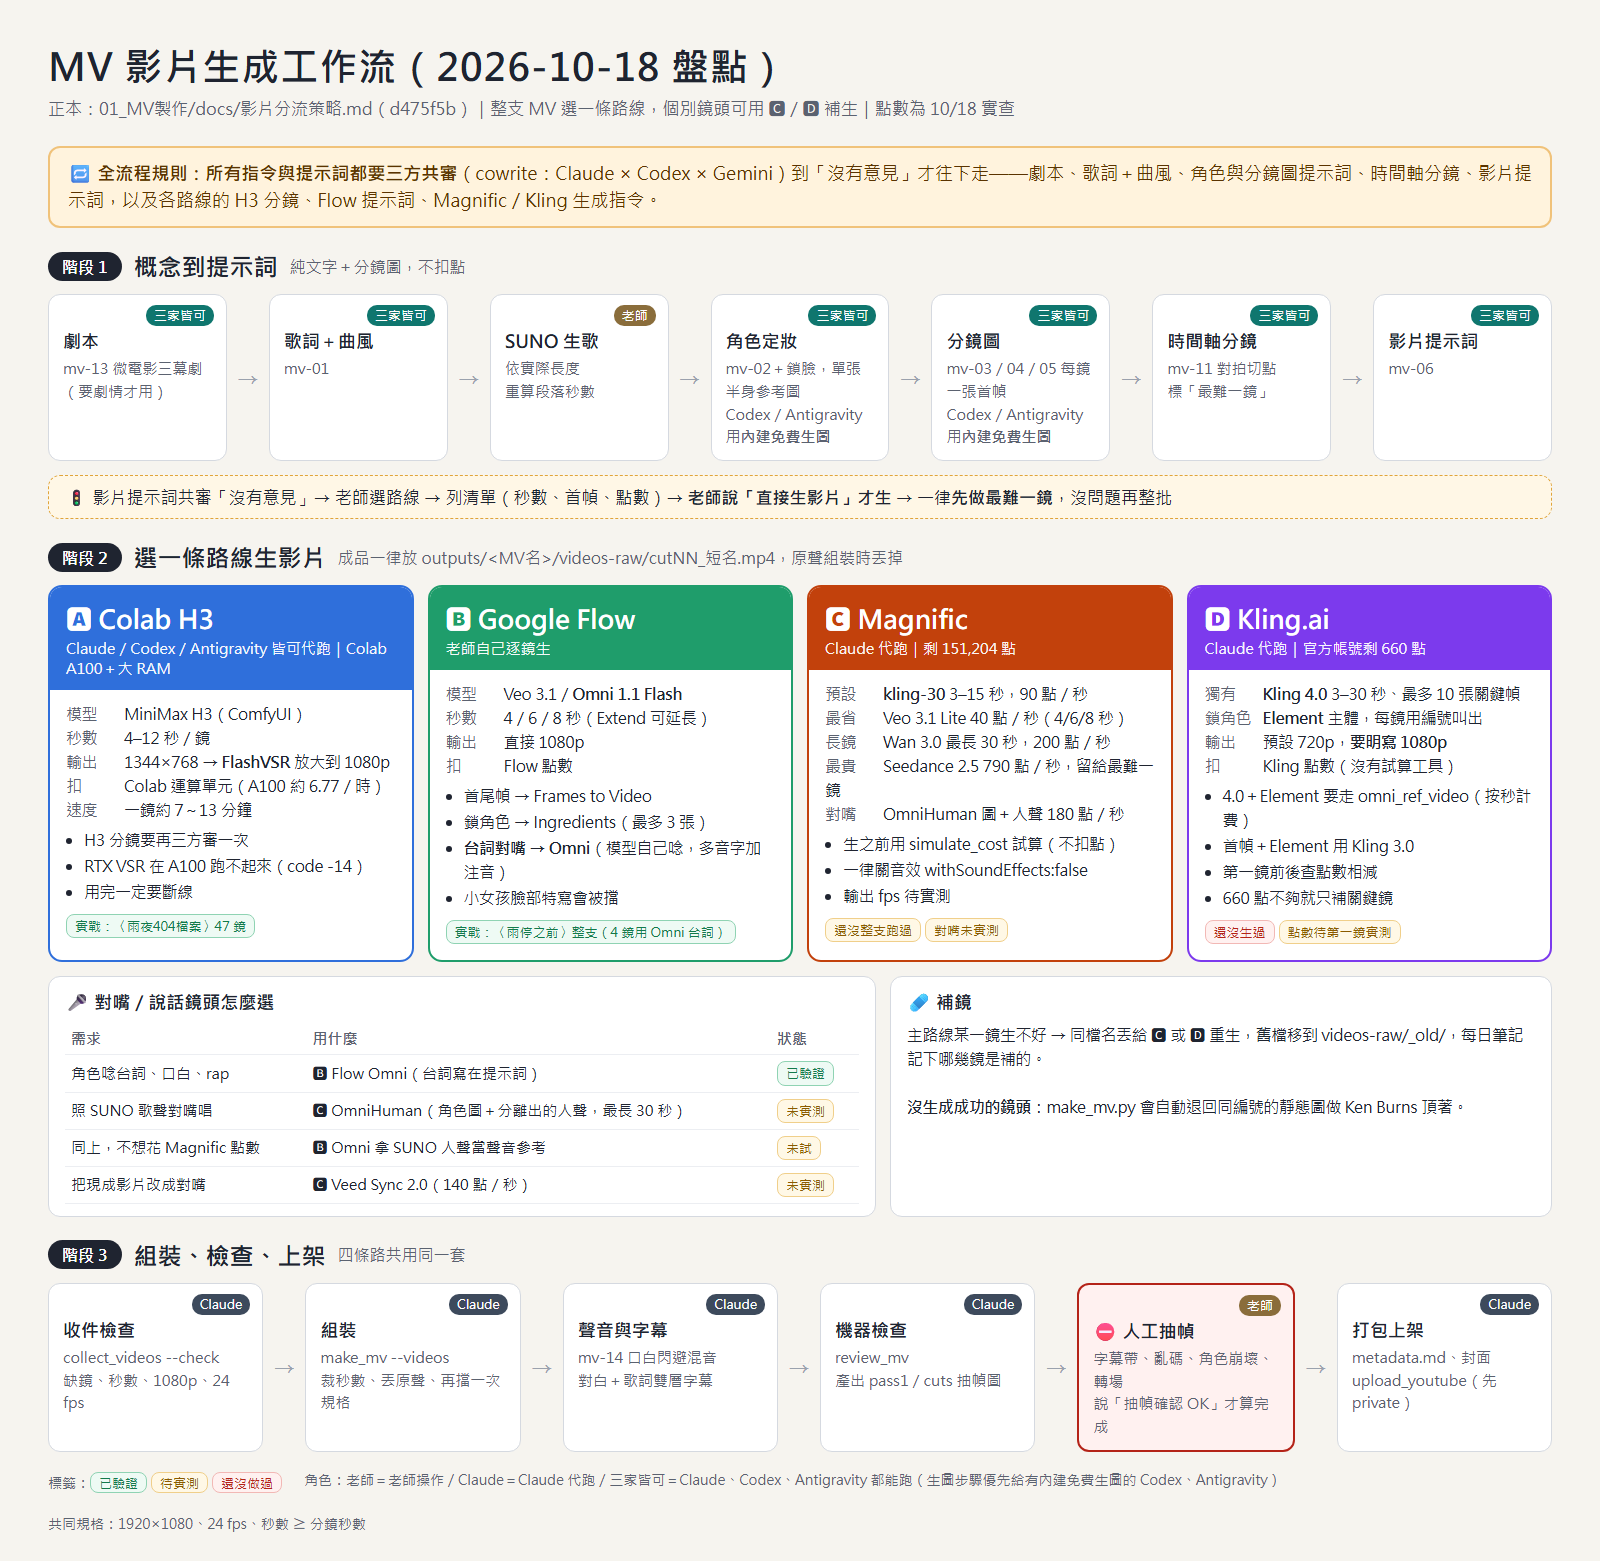
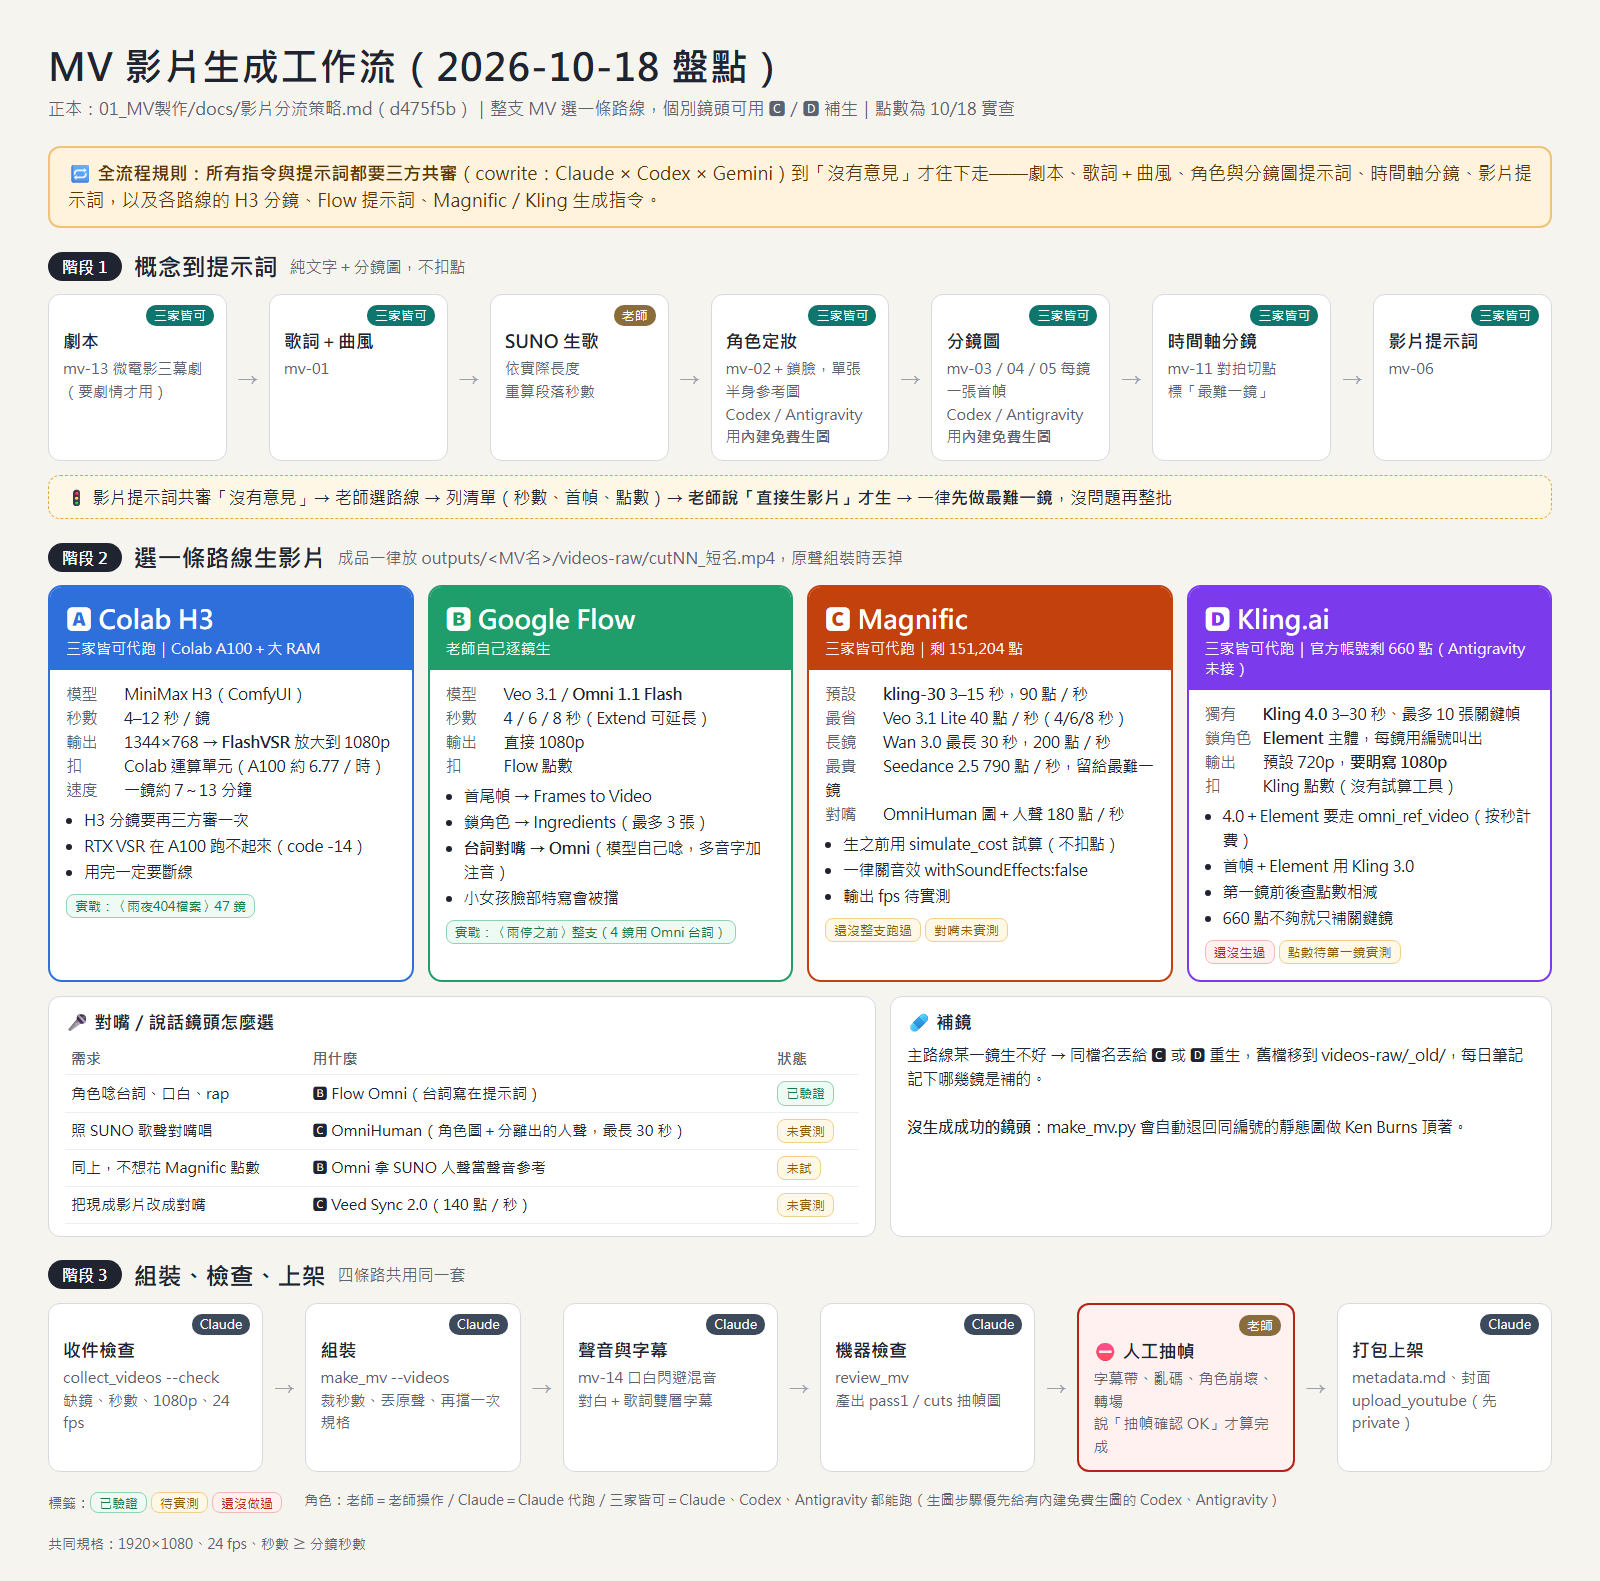
影片分流：🅲 Magnific、🅳 Kling.ai 也改成三家皆可代跑
- 四條路線中三條（🅰🅲🅳）都由 Claude／Codex／Antigravity 皆可代跑，🅱 由老師自己生
- 🅳 註明 Antigravity 還沒接 Kling MCP，要跑之前先接好並授權
- 流程圖同步重新出圖

diff --git a/docs/影片生成工作流.html b/docs/影片生成工作流.html
@@ -67,7 +67,7 @@ th{color:var(--sub);font-weight:600}
 
 <div class="stage"><span class="no">階段 2</span><span class="t">選一條路線生影片</span><span class="s">成品一律放 outputs/&lt;MV名&gt;/videos-raw/cutNN_短名.mp4，原聲組裝時丟掉</span></div>
 <div class="routes">
-  <div class="route A"><div class="hd"><div class="n">🅰 Colab H3</div><div class="w">Claude／Codex／Antigravity 皆可代跑｜Colab A100＋大 RAM</div></div>
+  <div class="route A"><div class="hd"><div class="n">🅰 Colab H3</div><div class="w">三家皆可代跑｜Colab A100＋大 RAM</div></div>
     <div class="bd">
       <div><span class="k">模型</span>MiniMax H3（ComfyUI）</div>
       <div><span class="k">秒數</span>4–12 秒／鏡</div>
@@ -86,7 +86,7 @@ th{color:var(--sub);font-weight:600}
       <ul><li>首尾幀 → Frames to Video</li><li>鎖角色 → Ingredients（最多 3 張）</li><li><b>台詞對嘴 → Omni</b>（模型自己唸，多音字加注音）</li><li>小女孩臉部特寫會被擋</li></ul>
       <div style="margin-top:8px"><span class="tag ok">實戰：〈雨停之前〉整支（4 鏡用 Omni 台詞）</span></div>
     </div></div>
-  <div class="route C"><div class="hd"><div class="n">🅲 Magnific</div><div class="w">Claude 代跑｜剩 151,204 點</div></div>
+  <div class="route C"><div class="hd"><div class="n">🅲 Magnific</div><div class="w">三家皆可代跑｜剩 151,204 點</div></div>
     <div class="bd">
       <div><span class="k">預設</span><b>kling-30</b> 3–15 秒，90 點／秒</div>
       <div><span class="k">最省</span>Veo 3.1 Lite 40 點／秒（4/6/8 秒）</div>
@@ -96,7 +96,7 @@ th{color:var(--sub);font-weight:600}
       <ul><li>生之前用 simulate_cost 試算（不扣點）</li><li>一律關音效 withSoundEffects:false</li><li>輸出 fps 待實測</li></ul>
       <div style="margin-top:8px"><span class="tag mid">還沒整支跑過</span><span class="tag mid">對嘴未實測</span></div>
     </div></div>
-  <div class="route D"><div class="hd"><div class="n">🅳 Kling.ai</div><div class="w">Claude 代跑｜官方帳號剩 660 點</div></div>
+  <div class="route D"><div class="hd"><div class="n">🅳 Kling.ai</div><div class="w">三家皆可代跑｜官方帳號剩 660 點（Antigravity 未接）</div></div>
     <div class="bd">
       <div><span class="k">獨有</span><b>Kling 4.0</b> 3–30 秒、最多 10 張關鍵幀</div>
       <div><span class="k">鎖角色</span><b>Element</b> 主體，每鏡用編號叫出</div>

diff --git a/docs/影片分流策略.md b/docs/影片分流策略.md
@@ -6,7 +6,7 @@
 ## 一句話
 
 影片提示詞三方共審「無意見」之後，**整支 MV 選一條路**：
-🅰 Colab H3（Claude／Codex／Antigravity 皆可代跑，用 Colab A100）、🅱 Google Flow（老師在 Flow 平台自己生）、🅲 Magnific（Claude 代跑，扣 Magnific 點數，內含 Kling／Veo／Seedance／Wan 等模型），或 🅳 Kling.ai（Claude 代跑，扣 Kling 官方帳號點數，有 Kling 4.0 與 Element 鎖角色）。
+🅰 Colab H3（Claude／Codex／Antigravity 皆可代跑，用 Colab A100）、🅱 Google Flow（老師在 Flow 平台自己生）、🅲 Magnific（Claude／Codex／Antigravity 皆可代跑，扣 Magnific 點數，內含 Kling／Veo／Seedance／Wan 等模型），或 🅳 Kling.ai（Claude／Codex／Antigravity 皆可代跑，扣 Kling 官方帳號點數，有 Kling 4.0 與 Element 鎖角色）。
 四條路的成品都放到同一個地方、同一套檔名，組裝不必分來源；也可以**主路線以外的個別鏡頭用 🅲 或 🅳 補生**（例如 H3 生不好的那一鏡）。
 
 整張流程圖：[影片生成工作流.png](影片生成工作流.png)（原始檔 `影片生成工作流.html`，改了本文件要一起改圖）。
@@ -104,7 +104,7 @@
 3. 下載後改名 `cutNN_<短名>.mp4` 放進 `outputs/<MV名>/videos-raw/`。
 4. 跟 Claude 說「Flow 影片放好了」，Claude 跑檢查（下一節）。
 
-## 🅲 Magnific 路線（Claude 代跑）
+## 🅲 Magnific 路線（Claude／Codex／Antigravity 皆可代跑）
 
 > **誰能跑**：透過 Magnific MCP（`https://mcp.magnific.com`，OAuth 免 key）。MCP 設定不走 chezmoi，**每台各自 `claude mcp add` 並授權**；2026-10-18 只有家裡用筆電接好（Claude Code／Codex／Antigravity 三套）。見記憶 magnific-video-music-only。
 > **點數**：Premium 方案，2026-10-18 剩 151,204 點（總額 240,000）。老師分工：Magnific 點數**只用在影片與音樂**，生圖照舊走免費管道。
@@ -118,7 +118,7 @@
 | `kling-omni3` | 3–15 | 5 秒 475 | 95 | 要拿參考影片帶動作時 |
 | `google-veo3_1-lite` | 只有 4／6／8 | 8 秒 320 | 40 | **最便宜的 1080p**（每秒點數不到 `kling-30` 的一半）；首尾幀可用；秒數限制跟 🅱 Flow 一樣，品質還沒試過，要用先拿一鏡比 |
 | `google-veo3_1-fast` | 只有 4／6／8 | 8 秒 800 | 100 | Veo 中階，首尾幀可用、沒有參考圖 |
-| `google-veo3_1` | 只有 4／6／8 | 4 秒 800／8 秒 1,600 | 200 | Veo 完整版，有參考圖；跟 🅱 Flow 同一家模型，改走 🅲 是 Claude 代跑、扣 Magnific 點數 |
+| `google-veo3_1` | 只有 4／6／8 | 4 秒 800／8 秒 1,600 | 200 | Veo 完整版，有參考圖；跟 🅱 Flow 同一家模型，改走 🅲 是 AI 代跑、扣 Magnific 點數 |
 | `pixverse-6` | 1–15 | 5 秒 1,000／10 秒 2,000 | 200 | 首尾幀可用、沒有參考圖，價格跟 Veo 完整版一樣，沒有特別理由就不要選 |
 | `wan-3-0` | 2–30 | 5 秒 1,000／10 秒 2,000 | 200 | 單鏡最長 30 秒，參考圖最多 5 張；長鏡頭不想拆鏡時考慮 |
 | `wan-3-0-prime` | 2–30 | 5 秒 1,700 | 340 | Wan 3.0 高階版 |
@@ -148,9 +148,9 @@
 
 主路線是 🅰、🅱 或 🅳 的 MV，某一鏡生不好時可以只把那一鏡丟給 🅲 重生，成品照同一個檔名覆蓋（舊的移到 `_old/`）。在每日筆記記下哪幾鏡是 🅲 生的。
 
-## 🅳 Kling.ai 路線（Claude 代跑）
+## 🅳 Kling.ai 路線（Claude／Codex／Antigravity 皆可代跑）
 
-> **誰能跑**：透過 Kling 官方 MCP（`https://kling.ai/mcp`，OAuth 免 key）。跟 🅲 一樣**每台各自接並授權**；2026-10-18 只有家裡用筆電接好（Claude Code、Codex），見記憶 kling-mcp-setup。
+> **誰能跑**：透過 Kling 官方 MCP（`https://kling.ai/mcp`，OAuth 免 key）。跟 🅲 一樣**每台各自接並授權**；2026-10-18 只有家裡用筆電接好（Claude Code、Codex）；**Antigravity 還沒接**，要讓它跑之前先接好並授權。見記憶 kling-mcp-setup。
 > **點數**：老師的 kling.ai 帳號 2026-10-18 實查是會員（`membershipType VIP`，方案說明 Standard），剩 **660 點**，只有 Magnific 的零頭。
 > **為什麼獨立成一條路**：Magnific 只叫得到 Kling 2.5～3.0，官方帳號多了兩樣——**Kling 4.0**（單鏡 3～30 秒，首尾幀之外還能塞中間關鍵幀）和 **Element**（把主角建成可重複用的「主體」，每鏡用編號叫出來，鎖角色比每次塞參考圖穩）。
 
@@ -213,7 +213,7 @@ python scripts/review_mv.py outputs/<MV名>/<MV名>_完整MV.mp4 --music <歌.mp
 
 | | 🅰 Colab H3 | 🅱 Google Flow | 🅲 Magnific | 🅳 Kling.ai |
 |---|---|---|---|---|
-| 誰操作 | 三家皆可代跑 | 老師自己逐鏡生 | Claude 代跑 | Claude 代跑 |
+| 誰操作 | 三家皆可代跑 | 老師自己逐鏡生 | 三家皆可代跑 | 三家皆可代跑 |
 | 適合 | 角色特寫多、想省點數 | 老師想親自挑每一鏡 | 要直接出 1080p、不想接手 Colab；或補別條路生不好的鏡頭 | 要 Kling 4.0、Element 鎖角色、單鏡超過 15 秒 |
 | 每鏡秒數 | 4–12 | 4／6／8（Extend 可更長） | `kling-30` 3–15 任選 | Kling 4.0 3–30、3.0 3–15 |
 | 輸出 | 1344×768，要 FlashVSR 放大 | 1080p | 1080p（fps 待實測） | 1080p（要明寫；fps 待實測） |

diff --git a/CLAUDE.md b/CLAUDE.md
@@ -64,7 +64,7 @@
 
 - 影片素材收件與檢查：`scripts/collect_videos.py`；三支腳本共用 `scripts/storyboard_md.py` 讀 mv-11 分鏡表。
 
-> 🔀 **影片分流**：影片提示詞三方共審「無意見」後，整支 MV 選 Colab H3（Claude／Codex／Antigravity 皆可代跑）、Google Flow（老師自己生）、Magnific（Claude 代跑，扣 Magnific 點數）或 Kling.ai（Claude 代跑，扣 Kling 官方點數），規則唯一正本在 [docs/影片分流策略.md](docs/影片分流策略.md)，這裡不抄內容。
+> 🔀 **影片分流**：影片提示詞三方共審「無意見」後，整支 MV 選 Colab H3（三家皆可代跑）、Google Flow（老師自己生）、Magnific（三家皆可代跑，扣 Magnific 點數）或 Kling.ai（三家皆可代跑，扣 Kling 官方點數），規則唯一正本在 [docs/影片分流策略.md](docs/影片分流策略.md)，這裡不抄內容。
 
 ---
 

diff --git a/AGENTS.md b/AGENTS.md
@@ -97,7 +97,7 @@
 
 ---
 
-> 🔀 **影片分流**：影片提示詞三方共審「無意見」後，整支 MV 選 Colab H3（Claude／Codex／Antigravity 皆可代跑）、Google Flow（老師自己生）、Magnific（Claude 代跑，扣 Magnific 點數）或 Kling.ai（Claude 代跑，扣 Kling 官方點數），規則唯一正本在 [docs/影片分流策略.md](docs/影片分流策略.md)，這裡不抄內容。
+> 🔀 **影片分流**：影片提示詞三方共審「無意見」後，整支 MV 選 Colab H3（三家皆可代跑）、Google Flow（老師自己生）、Magnific（三家皆可代跑，扣 Magnific 點數）或 Kling.ai（三家皆可代跑，扣 Kling 官方點數），規則唯一正本在 [docs/影片分流策略.md](docs/影片分流策略.md)，這裡不抄內容。
 
 ## MV_07 圖片處理大師
 
